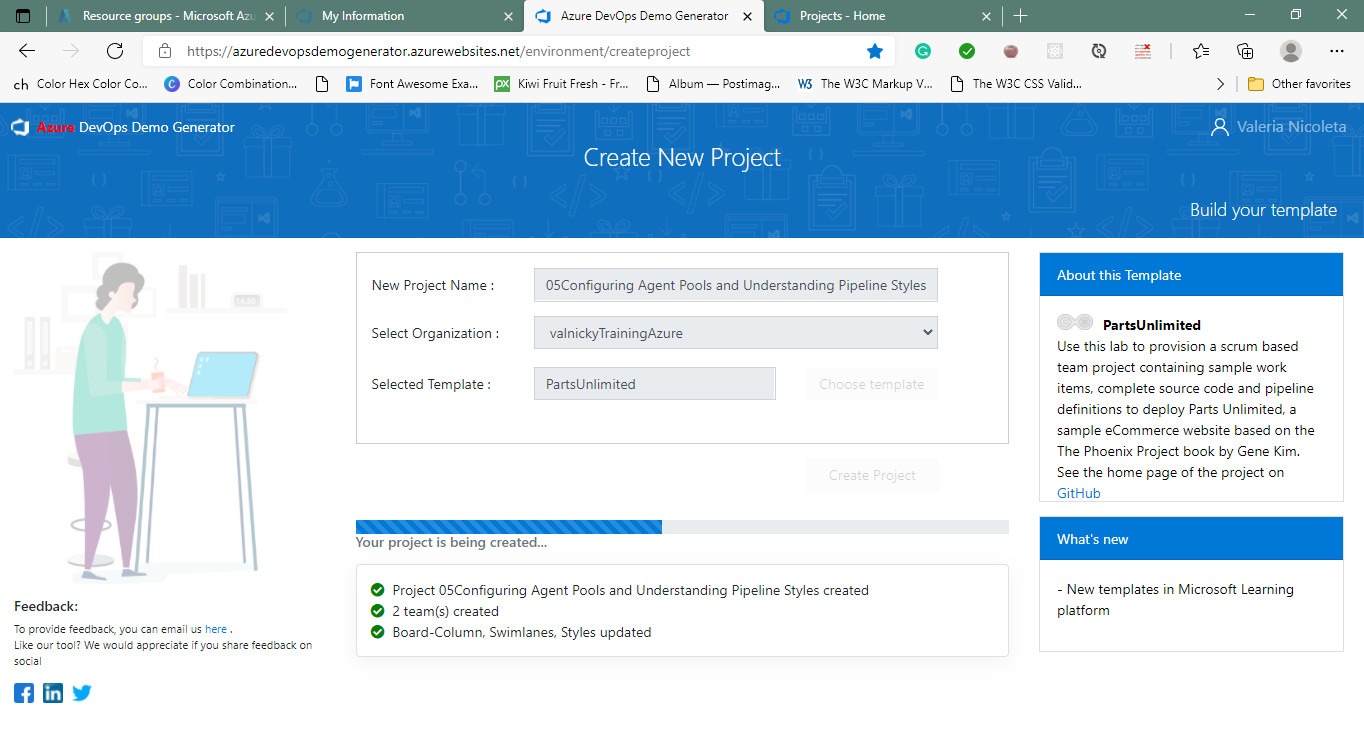
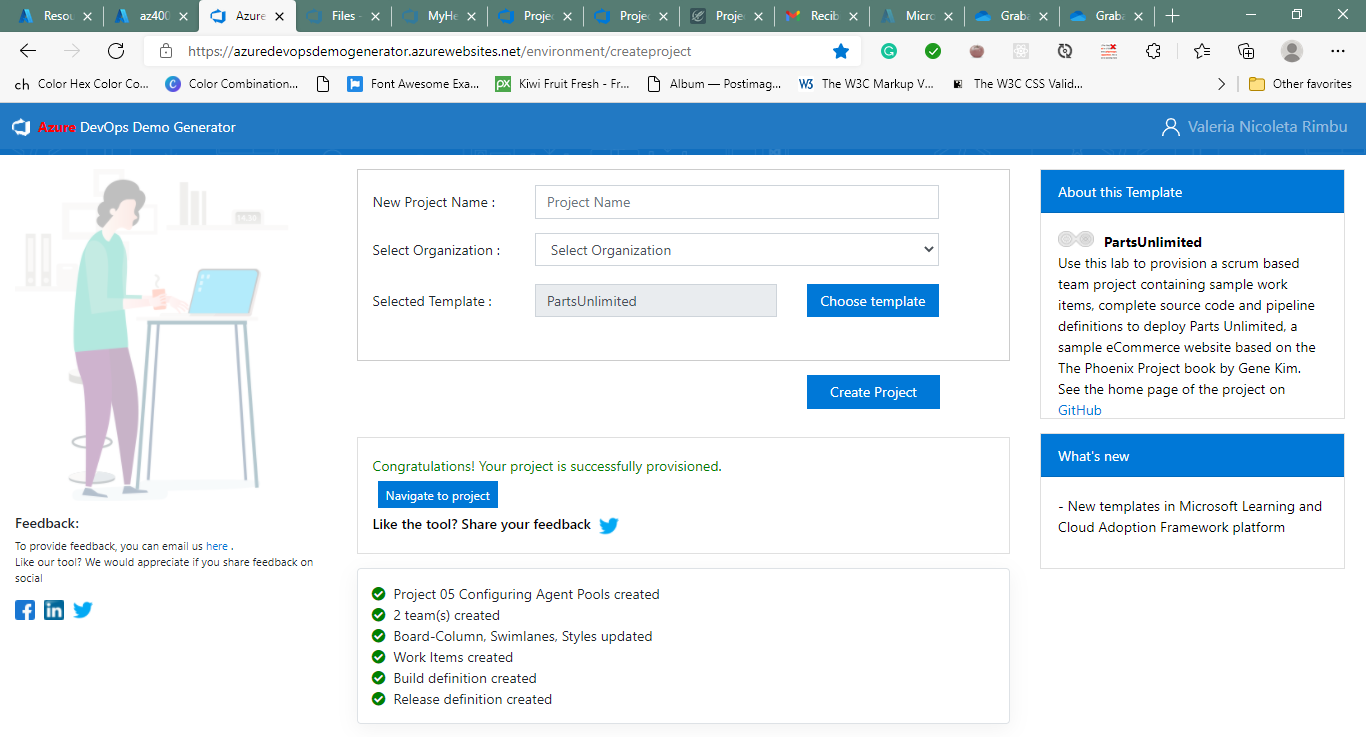
lab05 evidencias

diff --git a/Evidencia-az400/az400lab05/az400lab05.md b/Evidencia-az400/az400lab05/az400lab05.md
@@ -1,23 +1,163 @@
 #Lab 05: Configuring Agent Pools and Understanding Pipeline Styles
+
+Student lab manual
+Lab overview
 YAML-based pipelines allow you to fully implement CI/CD as code, in which pipeline definitions reside in the same repository as the code that is part of your Azure DevOps project. YAML-based pipelines support a wide range of features that are part of the classic pipelines, such as pull requests, code reviews, history, branching, and templates.
 
 Regardless of the choice of the pipeline style, to build your code or deploy your solution by using Azure Pipelines, you need an agent. An agent hosts compute resources that runs one job at a time. Jobs can be run directly on the host machine of the agent or in a container. You have an option to run your jobs using Microsoft-hosted agents, which are managed for you, or implementing a self-hosted agent that you set up and manage on your own.
 
 In this lab, you will step through the process of converting a classic pipeline into a YAML-based one and running it first by using a Microsoft-hosted agent and then performing the equivalent task by using a self-hosted agent.
 
+Objectives
+After you complete this lab, you will be able to:
+
+implement YAML-based pipelines
+implement self-hosted agents
+Lab duration
+Estimated time: 45 minutes
+Instructions
+Before you start
+Sign in to the lab virtual machine
+Ensure that you’re signed in to your Windows 10 computer by using the following credentials:
+
+Username: Student
+Password: Pa55w.rd
+Review the installed applications
+Find the taskbar on your Windows 10 desktop. The taskbar contains the icons for the applications that you’ll use in this lab:
+
+Microsoft Edge
+Visual Studio Code. This will be installed as part of prerequisites for this lab.
+Set up an Azure DevOps organization
+If you don’t already have an Azure DevOps organization that you can use for this lab, create one by following the instructions available at Create an organization or project collection.
+
 #Exercise 0: Configure the lab prerequisites
-
+In this exercise, you will set up the prerequisite for the lab, which consists of the preconfigured Parts Unlimited team project based on an Azure DevOps Demo Generator template.
 ##Task 1: Configure the team project
+In this task, you will use Azure DevOps Demo Generator to generate a new project based on the PartsUnlimited template.
 
+On your lab computer, start a web browser and navigate to Azure DevOps Demo Generator. This utility site will automate the process of creating a new Azure DevOps project within your account that is prepopulated with content (work items, repos, etc.) required for the lab.
+
+Note: For more information on the site, see https://docs.microsoft.com/en-us/azure/devops/demo-gen.
+
+Click Sign in and sign in using the Microsoft account associated with your Azure DevOps subscription.
+If required, on the Azure DevOps Demo Generator page, click Accept to accept the permission requests for accessing your Azure DevOps subscription.
+On the Create New Project page, in the New Project Name textbox, type Configuring Agent Pools and Understanding Pipeline Styles, in the Select organization dropdown list, select your Azure DevOps organization, and then click Choose template.
+On the Choose a template page, click the PartsUnlimited template, and then click Select Template.
+Click Create Project
+
+Note: Wait for the process to complete. This should take about 2 minutes. In case the process fails, navigate to your DevOps organization, delete the project, and try again.
+
+On the Create New Project page, click Navigate to project.
 ![0501](imagesEvidencia5/0501.PNG)
 
 ##Exercise 1: Author YAML-based Azure DevOps pipelines
+In this exercise, you will convert a classic Azure DevOps pipeline into a YAML-based one.
 
+###Task 1: Create an Azure DevOps YAML pipeline
+In this task, you will create a template-based Azure DevOps YAML pipeline.
+
+From the web browser displaying the Azure DevOps portal with the Configuring Agent Pools and Understanding Pipeline Styles project open, in the vertical navigational pane on the left side, click Pipelines.
+On the Recent tab of the Pipelines pane, click New pipeline.
+On the Where is your code? pane, click Azure Repos Git.
+On the Select a repository pane, click PartsUnlimited.
+On the Configure your pipeline pane, click Starter pipeline.
+On the Review your pipeline YAML pane, review the sample pipeline, click the down-facing caret symbol next to the Save and run button, click Save and, on the Save pane, click Save.
+
+Note: This will result in creation of the azure-pipelines.yml file in the root directory of the repository hosting the project code.
+
+Note: You will replace the content of the sample YAML pipeline with the code of pipeline generated by the classic editor and modify it to account for differences between the classic and YAML pipelines.
 ![0502](imagesEvidencia5/0502.PNG)
 
 ![0503](imagesEvidencia5/0503.PNG)
 
 ###Task 2: Convert a classic pipeline into a YAML pipeline
+In this task, you will convert a classic pipeline into a YAML pipeline
+
+From the web browser displaying the Azure DevOps portal with the Configuring Agent Pools and Understanding Pipeline Styles project open, in the vertical navigational pane on the left side, click Pipelines.
+On the Recent tab of the Pipelines pane, hover with the mouse pointer over the right edge of the entry containing the PartsUnlimitedE2E entry to reveal the vertical ellipsis symbol designating the More menu, click the ellipsis symbol, and, in the dropdown menu, click Edit. This will display the build pipeline that is part of the project you generated at the beginning of the lab.
+On the Tasks tab of the PartsUnlimitedE2E edit pane, click Triggers, on the right side of the PartsUnlimited pane, uncheck the Enable continuous integration checkbox, click the down-facing caret next to the Save & queue button, in the dropdown menu, click Save, and in the Save build pipeline click Save.
+
+Note: This will prevent from unintended execution of automatic build due to changes to the repository during this lab.
+
+Note: Alternatively, you could simply delete the existing pipeline once you copy its content into the new one.
+
+In the Azure DevOps portal, in the vertical navigational pane on the left side, in the Pipelines section, click Pipelines.
+On the Recent tab of the Pipelines pane, click the PartsUnlimitedE2E entry.
+On the Runs tab of the PartsUnlimitedE2E pane, in the upper right corner, click the vertical ellipsis (three vertical dots) symbol and, in the dropdown menu, click Export to YAML. This will automatically download the PartsUnlimitedE2E.yml file to your local Downloads folder.
+
+Note: The Export to YAML feature replaces an older View YAML option available from the pipeline editor pane within the Azure DevOps portal, which was limited to viewing YAML content one job at a time. The new functionality leverages existing classic and YAML pipeline infrastructure, including YAML parsing library, which results in more accurate translation between the two. It supports the following pipeline components:
+
+Single and multiple jobs
+Checkout options
+Execution plan parallelism
+Timeout and name metadata
+Demands
+Schedules and other triggers
+Pool selection, including jobs which differ from the default
+All tasks and all inputs, including optimizing for default inputs
+Job and step conditions
+Task group unrolling
+Note: The only components not covered by the new functionality are variables and timezone translation. Variables defined in YAML override variables set in the user interface of the Azure DevOps portal. If the Export to YAML feature detects presence of Classic pipeline variables, they will be explicitly included in the comments within the newly generated YAML pipeline definition. Similarly, since cron schedules in YAML are expressed in UTC, while classic schedules rely on the organization’s timezone, their presence is also included in the comments.
+
+Note: For more information regarding this functionality, refer to Replacing “View YAML”
+
+On the lab computer, start Visual Studio Code and use it to open the file PartsUnlimitedE2E.yml. The file should have the following content:
+
+Code
+name: $(date:yyyyMMdd)$(rev:.r)
+jobs:
+
+- job: Phase_1
+  displayName: Phase 1
+  cancelTimeoutInMinutes: 1
+  pool:
+  vmImage: vs2017-win2016
+  steps:
+  - checkout: self
+  - task: NuGetInstaller@0
+    name: NuGetInstaller_1
+    displayName: NuGet restore
+    inputs:
+    solution: '\*\*\*.sln'
+  - task: VSBuild@1
+    name: VSBuild_2
+    displayName: Build solution
+    inputs:
+    vsVersion: 15.0
+    msbuildArgs: /p:DeployOnBuild=true /p:WebPublishMethod=Package /p:PackageAsSingleFile=true /p:SkipInvalidConfigurations=true /p:PackageLocation="$(build.stagingDirectory)" /p:IncludeServerNameInBuildInfo=True /p:GenerateBuildInfoConfigFile=true /p:BuildSymbolStorePath="$(SymbolPath)" /p:ReferencePath="C:\Program Files (x86)\Microsoft Visual Studio\2017\Enterprise\Common7\IDE\Extensions\Microsoft\Pex"
+    platform: $(BuildPlatform)
+    configuration: $(BuildConfiguration)
+  - task: VSTest@1
+    name: VSTest_3
+    displayName: Test Assemblies
+    inputs:
+    testAssembly: '**\$(BuildConfiguration)\*test\*.dll;-:**\obj\*\*'
+    codeCoverageEnabled: true
+    vsTestVersion: latest
+    platform: $(BuildPlatform)
+    configuration: $(BuildConfiguration)
+  - task: CopyFiles@2
+    name: CopyFiles1
+    displayName: Copy Files
+    inputs:
+    SourceFolder: $(build.sourcesdirectory)
+    Contents: '\*_/_.json'
+    TargetFolder: $(build.artifactstagingdirectory)
+  - task: PublishBuildArtifacts@1
+    name: PublishBuildArtifacts_5
+    displayName: Publish Artifact
+    inputs:
+    PathtoPublish: $(build.artifactstagingdirectory)
+    TargetPath: '\\my\share\$(Build.DefinitionName)\$(Build.BuildNumber)'
+    ...
+    In the Visual Studio Code window, in the top-level menu, click Selection and, in the dropdown menu, click Select All.
+    In the Visual Studio Code window, in the top-level menu, click Edit and, in the dropdown menu, click Copy.
+    Switch to the browser window displaying the Azure DevOps portal and, in the vertical navigational pane on the left side, in the Pipelines section, click Pipelines.
+    On the Recent tab of the Pipelines pane, select PartsUnlimited and, on the PartsUnlimited pane, select Edit.
+    On the PartsUnlimited edit pane, select the existing YAML content of the pipeline, replace it with the content of Clipboard.
+    On the PartsUnlimited edit pane, in the upper-right corner, click Save, and, on the Save pane, click Save. This will automatically trigger the build based on this pipeline.
+    In the Azure DevOps portal, in the vertical navigational pane on the left side, in the Pipelines section, click Pipelines.
+    On the Recent tab of the Pipelines pane, click the PartsUnlimited entry, on the Runs tab of the PartsUnlimited pane, select the most recent run, on the Summary pane of the run, scroll down to the bottom, in the Jobs section, click Phase 1 and monitor the job until its successful completion.
 
 ![0504](imagesEvidencia5/0504.PNG)
 
@@ -44,7 +184,80 @@ In this lab, you will step through the process of converting a classic pipeline 
 ![0515](imagesEvidencia5/0515.PNG)
 
 ##Exercise 2: Manage Azure DevOps agent pools
+In this exercise, you will implement self-hosted Azure DevOps agent.
+
 ###Task 1: Configure an Azure DevOps self-hosting agent
+In this task, you will configure the LOD VM as an Azure DevOps self-hosting agent and use it to run a build pipeline.
+
+Within the Lab Virtual machine (Lab VM) or your own computer, start a web browser, navigate to the Azure DevOps portal and sign in by using the Microsoft account associated with your Azure DevOps organization.
+In the Azure DevOps portal, in the upper right corner of the Azure DevOps page, click the User settings icon, in the dropdown menu, click Personal access tokens, on the Personal Access Tokens pane, and click + New Token.
+On the Create a new personal access token pane, click the Show all scopes link and, specify the following settings and click Create (leave all others with their default values):
+
+Setting Value
+Name Configuring Agent Pools and Understanding Pipeline Styles lab
+Scope (custom defined) Agent Pools (show more scopes option below if needed)
+Permissions Read and manage
+On the Success pane, copy the value of the personal access token to Clipboard.
+
+Note: Make sure you copy the token. You will not be able to retrieve it once you close this pane.
+
+On the Success pane, click Close.
+On the Personal Access Token pane of the Azure DevOps portal, click Azure DevOps symbol in the upper left corner and then click Organization settings label in the lower left corner.
+To the left side of the Overview pane, in the vertical menu, in the Pipelines section, click Agent pools.
+On the Agent pools pane, in the upper right corner, click Add pool.
+On the Add agent pool pane, in the Pool type dropdown list, select Self-hosted, in the Name text box, type az400m05l05a-pool and then click Create.
+Back on the Agent pools pane, click the entry representing the newly created az400m05l05a-pool.
+On the Jobs tab of the az400m05l05a-pool pane, click the Agents header.
+On the Agents tab of the az400m05l05a-pool pane, click the New agent button.
+On the Get the agent pane, ensure that the Windows and x64 tabs are selected, and click Download to download the zip archive containing the agent binaries to download it into the local Downloads folder within your user profile.
+
+Note: If you receive an error message at this point indicating that the current system settings prevent you from downloading the file, in the Internet Explorer window, in the upper right corner, click the gearwheel symbol designating the Settings menu header, in the dropdown menu, select Internet Options, in the Internet Options dialog box, click Advanced, on the Advanced tab, click Reset, in the Reset Internet Explorer Settings dialog box, click Reset again, click Close, and try the download again.
+
+Start Windows PowerShell as administrator and in the Administrator: Windows PowerShell console run the following lines to create the C:\agent directory and extract the content of the downloaded archive into it.
+
+Code
+cd \
+mkdir agent ; cd agent
+$TARGET = Get-ChildItem "$Home\Downloads\vsts-agent-win-x64-\*.zip"
+Add-Type -AssemblyName System.IO.Compression.FileSystem
+[System.IO.Compression.ZipFile]::ExtractToDirectory($TARGET, "$PWD")
+In the same Administrator: Windows PowerShell console, run the following to configure the agent:
+
+Code
+.\config.cmd
+When prompted, specify the values of the following settings:
+
+Setting Value
+Enter server URL the URL of your Azure DevOps organization, in the format https://dev.azure.com/<organization_name>, where <organization_name> represents the name of your Azure DevOps organization
+Enter authentication type (press enter for PAT) Enter
+Enter personal access token The access token you recorded earlier in this task
+Enter agent pool (press enter for default) az400m05l05a-pool
+Enter agent name az400m05-vm0
+Enter work folder (press enter for \_work) Enter
+Enter Perform an unzip for tasks for each step. (press enter for N) Enter
+Enter run agent as service? (Y/N) (press enter for N) Y
+Enter User account to use for the service (press enter for NT AUTHORITY\NETWORK SERVICE) Enter
+Note: You can run self-hosted agent as either a service or an interactive process. You might want to start with the interactive mode, since this simplifies verifying agent functionality. For production use, you should consider either running the agent as a service or as an interactive process with auto-logon enabled, since both persist their running state and ensure that the agent starts automatically if the operating system is restarted.
+
+Note: Verify that the agent is reporting the Listening for Jobs status.
+
+Switch to the browser window displaying the Azure DevOps portal and close the Get the agent pane.
+Back on the Agents tab of the az400m05l05a-pool pane, note that the newly configured agent is listed with the Online status.
+In the web browser window displaying the Azure DevOps portal, in the upper left corner, click the Azure DevOps label.
+In the browser window displaying the list of projects, click the tile representing your Configuring Agent Pools and Understanding Pipeline Styles project.
+On the Configuring Agent Pools and Understanding Pipeline Styles pane, in the vertical navigational pane on the left side, in the Pipelines section, click Pipelines.
+On the Recent tab of the Pipelines pane, select PartsUnlimited and, on the PartsUnlimited pane, select Edit.
+On the PartsUnlimited edit pane, in the existing YAML-based pipeline, replace line 7 vmImage: vs2017-win2016 designating the target agent pool the following content, designating the newly created self-hosted agent pool:
+
+Code
+name: az400m05l05a-pool
+demands:
+
+- agent.name -equals az400m05-vm0
+  For Task: NugetInstaller@0, click on Settings (link that is displaying above the task in grey colour), modify Advanced > NuGet Version > 4.0.0 and click on Add.
+  On the PartsUnlimited edit pane, in the upper right corner of the pane, click Save and, on the Save pane, click Save again. This will automatically trigger the build based on this pipeline.
+  In the Azure DevOps portal, in the vertical navigational pane on the left side, in the Pipelines section, click Pipelines.
+  On the Recent tab of the Pipelines pane, click the PartsUnlimited entry, on the Runs tab of the PartsUnlimited pane, select the most recent run, on the Summary pane of the run, scroll down to the bottom, in the Jobs section, click Phase 1 and monitor the job until its successful completion.
 
 ![0516](imagesEvidencia5/0516.PNG)
 
@@ -61,3 +274,37 @@ In this lab, you will step through the process of converting a classic pipeline 
 ![0522](imagesEvidencia5/0522.PNG)
 
 ![0523](imagesEvidencia5/0523.PNG)
+
+![0524](imagesEvidencia5/0524.PNG)
+
+![0525](imagesEvidencia5/0525.PNG)
+
+![0526](imagesEvidencia5/0526.PNG)
+
+![0527](imagesEvidencia5/0527.PNG)
+
+![0528](imagesEvidencia5/0528.PNG)
+
+![0529](imagesEvidencia5/0529.PNG)
+
+![0530](imagesEvidencia5/0530.PNG)
+
+![0531](imagesEvidencia5/0531.PNG)
+
+![0532](imagesEvidencia5/0532.PNG)
+
+![0533](imagesEvidencia5/0533.PNG)
+
+![0534](imagesEvidencia5/0534.PNG)
+
+![0535](imagesEvidencia5/0535.PNG)
+
+![0536](imagesEvidencia5/0536.PNG)
+
+![0537](imagesEvidencia5/0537.PNG)
+
+![0538](imagesEvidencia5/0538.PNG)
+
+![0539](imagesEvidencia5/0539.PNG)
+
+![0540](imagesEvidencia5/0540.PNG)

diff --git a/Evidencia-az400/az400lab11b/az400lab11b.md b/Evidencia-az400/az400lab11b/az400lab11b.md
@@ -127,3 +127,19 @@ Once the download of the DacFramework.msi file completes, use it to run the inst
 ![1106](imagesEvidencia11/1106.PNG)
 
 ![1107](imagesEvidencia11/1107.PNG)
+
+![1108](imagesEvidencia11/1108.PNG)
+
+![1109](imagesEvidencia11/1109.PNG)
+
+![1110](imagesEvidencia11/1110.PNG)
+
+![1111](imagesEvidencia11/1111.PNG)
+
+![1112](imagesEvidencia11/1112.PNG)
+
+![1113](imagesEvidencia11/1113.PNG)
+
+![1114](imagesEvidencia11/1114.PNG)
+
+![1115](imagesEvidencia11/1115.PNG)
